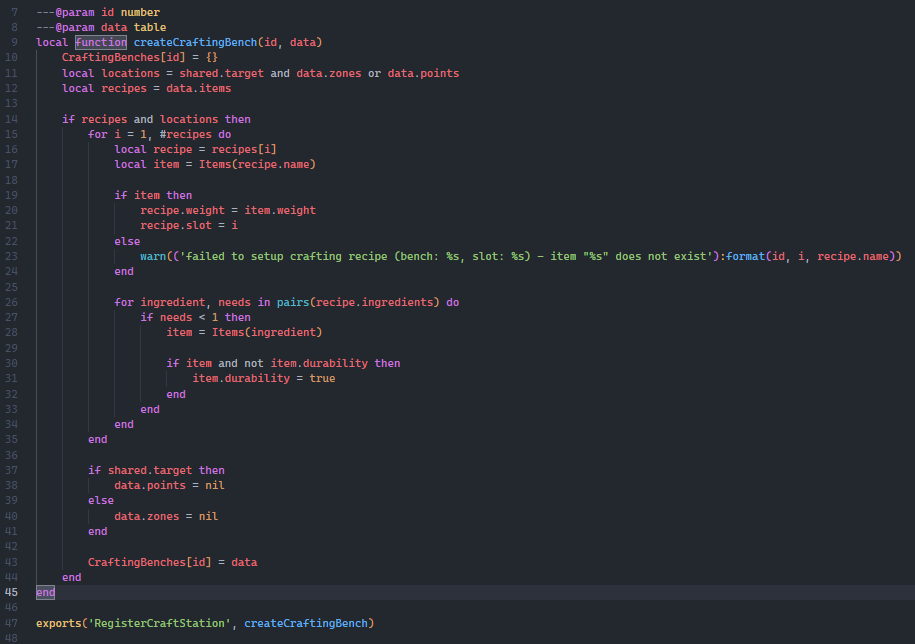
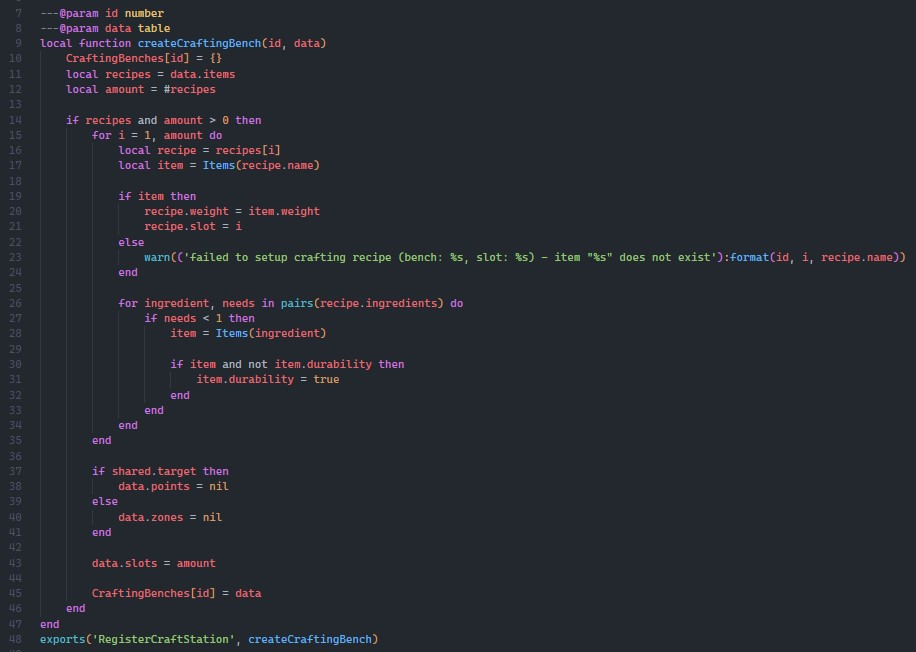
GITBOOK-19: change request with no subject merged in GitBook

Changed region(s): [[0.0, 0.0, 1.0, 1.0], [0.0612, 0.7143, 0.306, 0.9317], [0.0918, 0.6211, 0.1836, 0.6832]]

diff --git a/paid-scripts/renewed-businesses/installation/ox-inventory-changes.md b/paid-scripts/renewed-businesses/installation/ox-inventory-changes.md
@@ -129,18 +129,60 @@ end)
 
 ### Step 3
 
-Now head over to ox\_inventory/modules/crafting/server.lua
-
-Here you want to put the following under createCraftingBench function
+Now head over to ox\_inventory/modules/crafting/server.lua and find this function
 
 ```lua
+function createCraftingBench
+```
+
+
+
+Now replace that function with this
+
+```lua
+local function createCraftingBench(id, data)
+	CraftingBenches[id] = {}
+	local recipes = data.items
+	local amount = #recipes
+
+	if recipes and amount > 0 then
+		for i = 1, amount do
+			local recipe = recipes[i]
+			local item = Items(recipe.name)
+
+			if item then
+				recipe.weight = item.weight
+				recipe.slot = i
+			else
+				warn(('failed to setup crafting recipe (bench: %s, slot: %s) - item "%s" does not exist'):format(id, i, recipe.name))
+			end
+
+			for ingredient, needs in pairs(recipe.ingredients) do
+				if needs < 1 then
+					item = Items(ingredient)
+
+					if item and not item.durability then
+						item.durability = true
+					end
+				end
+			end
+		end
+
+		if shared.target then
+			data.points = nil
+		else
+			data.zones = nil
+		end
+
+		data.slots = amount
+
+		CraftingBenches[id] = data
+	end
+end
 exports('RegisterCraftStation', createCraftingBench)
 ```
 
-&#x20;It should look like this\
-
-
-<figure><img src="../../../.gitbook/assets/Code_NuHYB3qrPx.png" alt=""><figcaption></figcaption></figure>
+<figure><img src="../../../.gitbook/assets/image.png" alt=""><figcaption><p>This is what a the function will look like when successfully installed</p></figcaption></figure>
 
 ### Step 4
 
